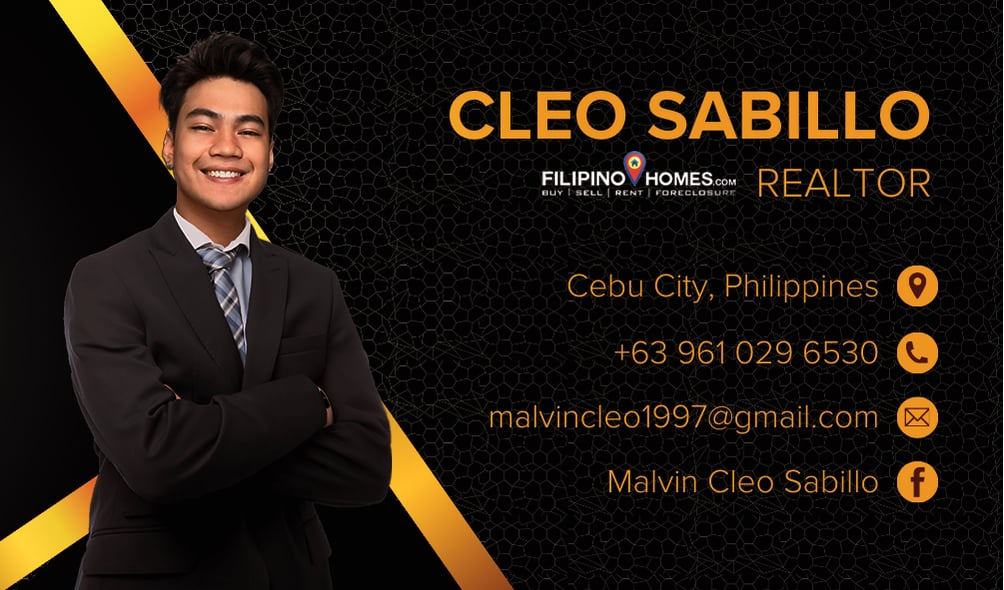
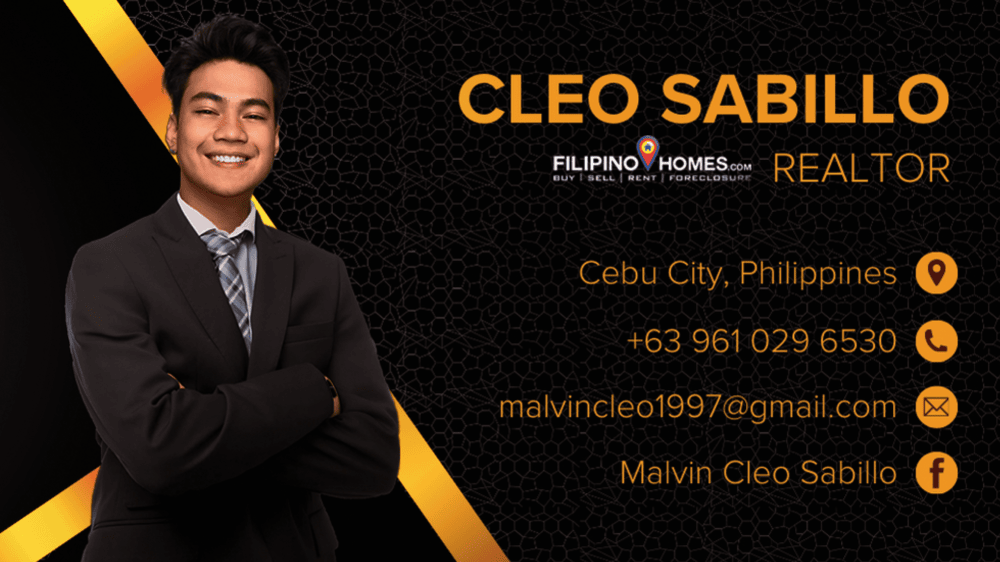
as

diff --git a/src/app/page.tsx b/src/app/page.tsx
@@ -7,11 +7,12 @@ import { Modal, Box, Typography, IconButton } from '@mui/material';
 import CloseIcon from '@mui/icons-material/Close';
 import Input from '@mui/joy/Input';
 import MailOutlineIcon from '@mui/icons-material/MailOutline';
+import Image from 'next/image';
 
 import { Swiper, SwiperSlide } from 'swiper/react';
 import 'swiper/css';
 import 'swiper/css/free-mode';
-import 'swiper/css/navigation';
+import 'swiper/css/pagination';
 import 'swiper/css/thumbs';
 import SmartphoneIcon from '@mui/icons-material/Smartphone';
 import FacebookIcon from '@mui/icons-material/Facebook';
@@ -23,7 +24,7 @@ import Link from "next/link";
 
 // Install Swiper modules
 
-import { FreeMode, Navigation, Thumbs, Autoplay  } from 'swiper/modules';
+import { FreeMode, Thumbs, Autoplay, Pagination  } from 'swiper/modules';
 
 
 
@@ -35,16 +36,15 @@ interface Image {
 }
 
 const images: Image[] = [
-  { src: "/malvincard.png", alt: "Malvin Card1", inv: "/sample.html", name: "Malvin Sabillo"},
-  { src: "/diane.png", alt: "Diane", inv: "/sample.html", name: "Dianne Rosaroso" },
-  { src: "/malvincard.png", alt: "Malvin Card2", inv: "/sample.html", name: "Malvin Sabillo" },
-  { src: "/diane.png", alt: "Diane", inv: "/sample.html", name: "Dianne Rosaroso" },
-  { src: "/malvincard.png", alt: "Malvin Card3", inv: "/sample.html", name: "Malvin Sabillo" },
-  { src: "/diane.png", alt: "Diane", inv: "/sample.html", name: "Dianne Rosaroso" },
-  { src: "/jesua.webp", alt: "Jesua", inv: "/sample.html", name: "Jesua Gordon" },
-  { src: "/jesua.webp", alt: "Jesua", inv: "/sample.html", name: "Jesua Gordon" },
-  { src: "/jesua.webp", alt: "Jesua", inv: "/sample.html", name: "Jesua Gordon" },
-  { src: "/jesua.webp", alt: "Jesua", inv: "/sample.html", name: "Jesua Gordon" },
+  { src: "/MalvinCard.png", alt: "Malvin Card1", inv: "/sample.html", name: "Malvin Sabillo"},
+  { src: "/DianneCard.png", alt: "Diane", inv: "/sample.html", name: "Dianne Rosaroso" },
+  { src: "/MalvinCard.png", alt: "Malvin Card2", inv: "/sample.html", name: "Malvin Sabillo" },
+  { src: "/DianneCard.png", alt: "Diane", inv: "/sample.html", name: "Dianne Rosaroso" },
+  { src: "/MalvinCard.png", alt: "Malvin Card3", inv: "/sample.html", name: "Malvin Sabillo" },
+  { src: "/DianneCard.png", alt: "Diane", inv: "/sample.html", name: "Dianne Rosaroso" },
+  { src: "/JesuaCard.png", alt: "Jesua", inv: "/sample.html", name: "Jesua Gordon" },
+  { src: "/JesuaCard.png", alt: "Jesua", inv: "/sample.html", name: "Jesua Gordon" },
+  { src: "/JesuaCard.png", alt: "Jesua", inv: "/sample.html", name: "Jesua Gordon" },
 ];
 
 
@@ -126,20 +126,18 @@ export default function Home() {
       <header className={styles.header}>
         <div className={styles.desktop}>
           <div className={styles.logo}>
-            <img src="/fma-logo.webp" alt="Fma Logo Logo" />
+            <Image  src="/fma-logo.webp"  width={500} 
+height={300}   alt="Fma Logo Logo" />
           </div>
           <nav className="navigation">
             <div className={styles.links}>
         <Link href="/">
         Home
       </Link>
-      <Link href="/services">
-        Services
-      </Link>
-      <Link href="/about">
+      <Link href="/#secondFold">
         About Us
       </Link>
-      <Link href="/contact">
+      <Link href="/#thirdFold">
         Contact Us
       </Link>
             </div>
@@ -148,7 +146,8 @@ export default function Home() {
 
         <div className={styles.mobile}>
           <div className={styles.logo}>
-            <img src="/fma-logo.webp" alt="Fma Logo Logo" />
+          <Image  src="/fma-logo.webp"  width={500} 
+height={300}   alt="Fma Logo Logo" />
           </div>
           <div className="hamburger" onClick={toggleNav}>
             <svg
@@ -171,16 +170,13 @@ export default function Home() {
 <div className={`${styles.sidebar} ${isOpen ? styles.open : ''}`}    ref={sidebarRef}> 
 <button onClick={toggleNav} className={styles.closeSidebar}>&times;</button>
         <nav>
-        <Link href="/">
+        <Link href="/" onClick={toggleNav}>
         Home
       </Link>
-      <Link href="/services">
-        Services
-      </Link>
-      <Link href="/about">
+      <Link href="/#secondFold" onClick={toggleNav}>
         About Us
       </Link>
-      <Link href="/contact">
+      <Link href="/#thirdFold" onClick={toggleNav}>
         Contact Us
       </Link>
         </nav>
@@ -208,7 +204,7 @@ export default function Home() {
           {filteredItems.length > 0 ? (
             filteredItems.map((image, index) => (
               <li key={index} onClick={() => openModal(image)}>
-                <img src={image.src} alt={image.alt} width="100" style={{ cursor: 'pointer' }} />
+                <Image src={image.src} alt={image.alt} width={200} height={100} style={{ cursor: 'pointer' }} />
              
                   <p>{image.name}</p>
                  
@@ -227,12 +223,12 @@ export default function Home() {
         }}
         loop={true}
         // spaceBetween={10}
-        navigation={true}
+        pagination={{ clickable: true }} 
         autoplay={{
           delay: 2500,
         }}
         thumbs={{ swiper: thumbsSwiper }}
-        modules={[FreeMode, Navigation, Thumbs, Autoplay]}
+        modules={[FreeMode,  Thumbs, Autoplay, Pagination ]}
         className="mySwiper2"
       >
       {shuffledImages.map((image, index) => (
@@ -244,7 +240,7 @@ export default function Home() {
 </Link>
           </div>
         
-          <img src={image.src} alt={image.alt} />
+          <Image src={image.src} width={600} height={450} alt={image.alt}  quality={100} />
         </SwiperSlide>
       ))}
       </Swiper>
@@ -252,16 +248,16 @@ export default function Home() {
          onSwiper={setThumbsSwiper}
          loop={true}
          spaceBetween={10}
-
+  
          slidesPerView={3}
          freeMode={true}
          watchSlidesProgress={true}
-         modules={[FreeMode, Navigation, Thumbs]}
+         modules={[FreeMode, Pagination, Thumbs]}
         className="mySwiper"
       >
       {shuffledImages.map((image, index) => (
         <SwiperSlide key={index}>
-          <img src={image.src} alt={image.alt} />
+          <Image src={image.src} width={350} height={200} alt={image.alt} />
         </SwiperSlide>
       ))}
       </Swiper>
@@ -298,7 +294,7 @@ export default function Home() {
               >
                 <CloseIcon sx={{ fontSize: '25px' }} />
               </IconButton>
-              <img src={selectedImage.src} alt={selectedImage.alt} style={{ width: '100%' }} />
+              <Image src={selectedImage.src}  alt={selectedImage.alt} style={{ width: '100%' }} />
               <Typography variant="h5" sx={{ mt: 1 ,mb:2}}>
                 {selectedImage.name}
               </Typography>
@@ -313,7 +309,7 @@ export default function Home() {
 
         </div>
 
-        <div className={styles.secondFold}>
+        <div className={styles.secondFold} id="secondFold">
 
             <h1>Who We Are</h1>
 
@@ -337,7 +333,7 @@ export default function Home() {
           </div>
         </div>
 
-        <div className={styles.thirdFold}>
+        <div className={styles.thirdFold} id="thirdFold">
           
           <div className={styles.thirdFoldDiv}>
           <h2>Get In Touch</h2>

diff --git a/src/app/slide.css b/src/app/slide.css
@@ -1,7 +1,9 @@
 .mySwiper2  img{
-    width: 80%;
+    width: 70%;
+    max-width: 1200px;
     margin: auto;
     display: flex;
+    height: auto;
   }
 
 
@@ -10,13 +12,18 @@
     max-width: 350px;
     margin: auto;
     filter: brightness(40%);
+    height: auto;
   }
 
   .hamburger svg {
     color: #000;
   }
 
- 
+
+  .swiper-pagination-bullet {
+    background-color:  #1F7A1F !important; /* Replace with your desired color */
+  }
+
   .slider-container {
     max-width: 1800px;
     margin: auto;
@@ -26,6 +33,7 @@
   .mySwiper .swiper-slide-thumb-active img {
     filter: brightness(100%);
     z-index: 5;
+    height: auto;
   }
 
   .swiper-slide {
@@ -103,6 +111,7 @@ font-size: 20px;
 
   .searchResults li img {
 width: 30%;
+height: auto;
       }
     
 

diff --git a/src/app/page.module.css b/src/app/page.module.css
@@ -28,7 +28,9 @@
 }
 
 .logo img{
-  max-width: 250px;
+  max-width: 170px;
+  height: auto;
+  margin-left: 50px;
 }
 
 .links a {
@@ -193,6 +195,7 @@ display: block;
 
 .logo img{
   max-width: 150px;
+  margin-left: 10px;
 }
 
 .secondFold  h1{
